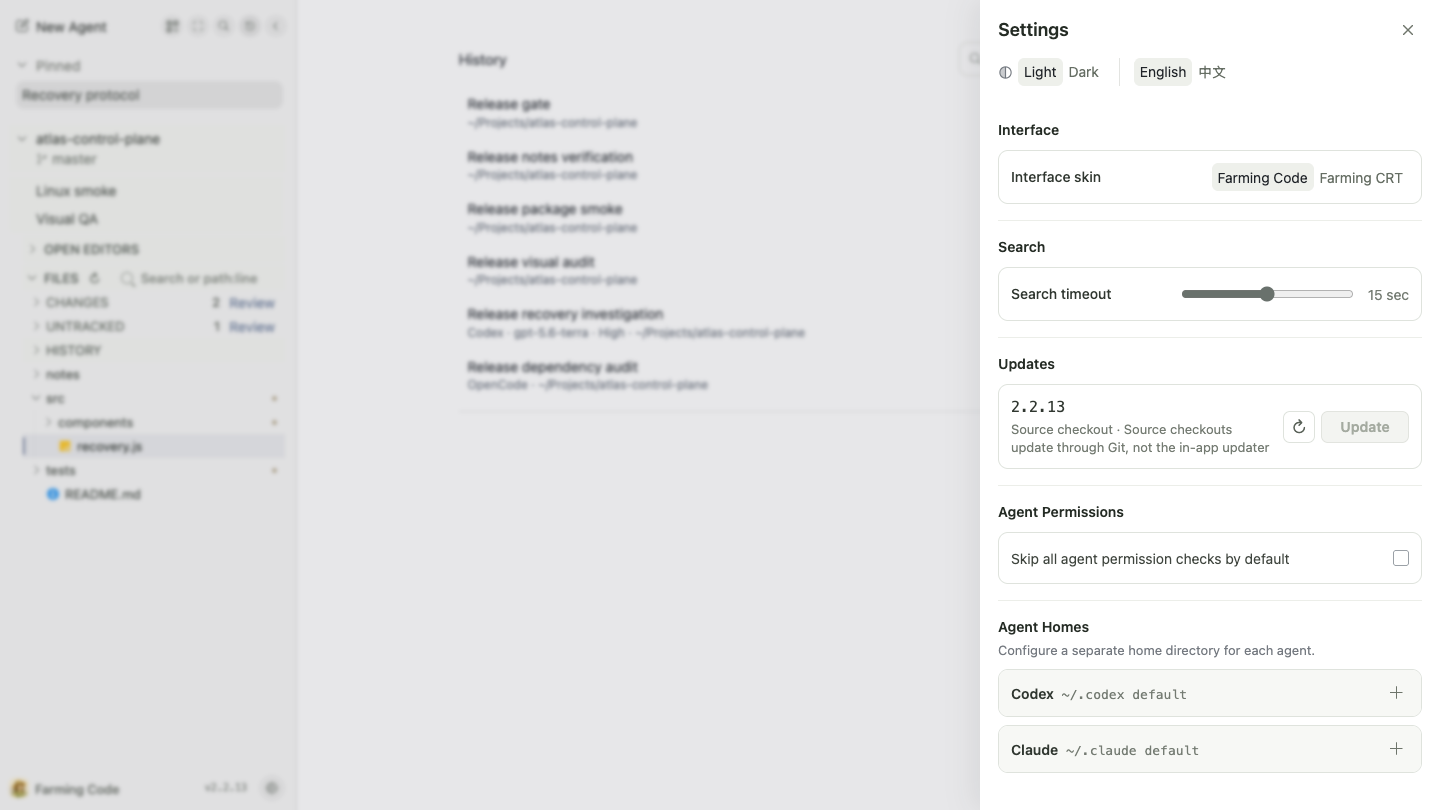
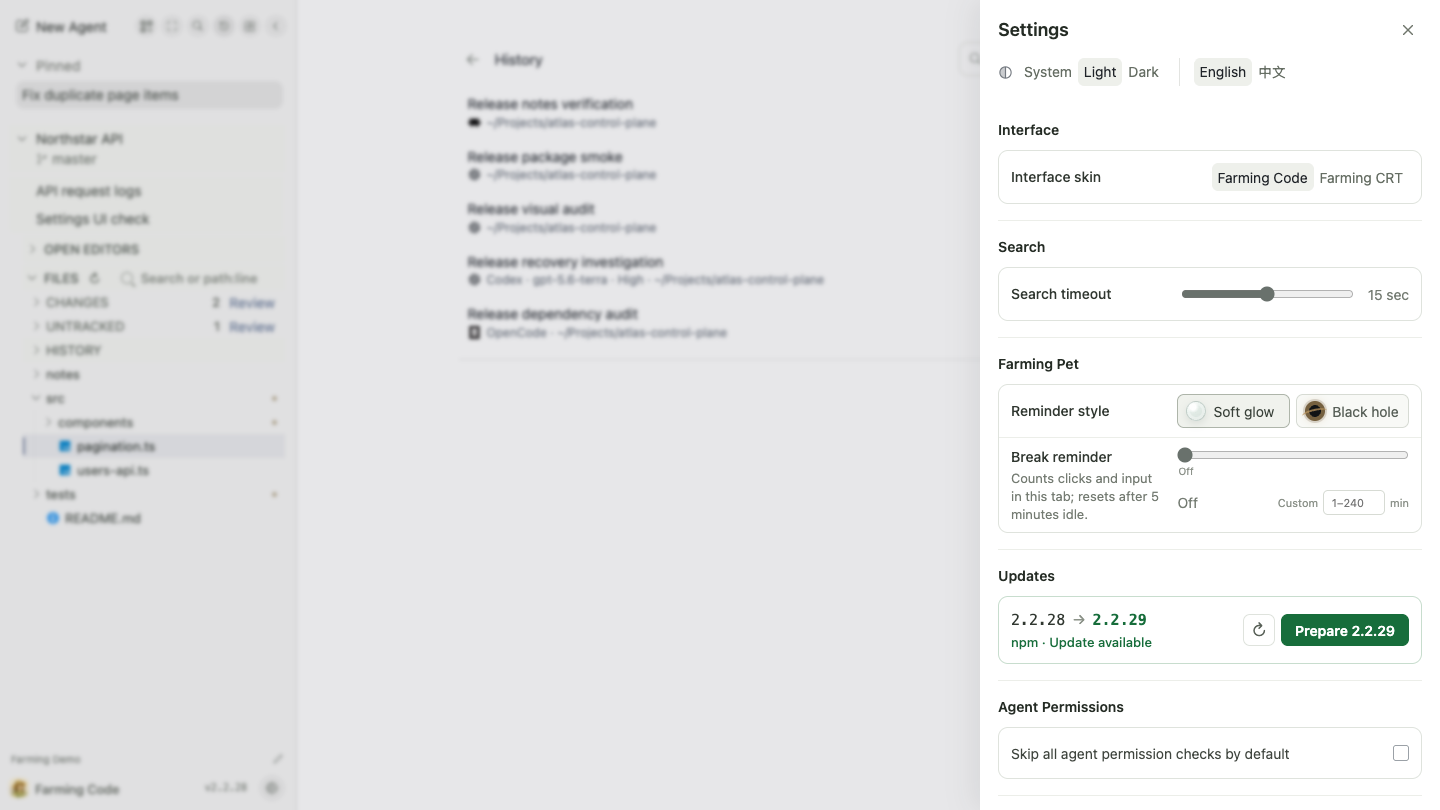
docs: refresh README product screenshots

diff --git a/scripts/capture-product-screenshots.js b/scripts/capture-product-screenshots.js
@@ -845,36 +845,13 @@ async function projectNorthstarChat(page, { mobile = false } = {}) {
   }, { version: packageVersion, mobileLayout: mobile });
 }
 
-async function projectNorthstarCrtDashboard(page) {
+async function stabilizeCrtDashboard(page) {
   await page.addStyleTag({
     content: [
       '#farming-crt .agent-output-afterimage { display: none !important; }',
       '#farming-crt .agent-block.working .agent-output:not(.structured-preview) { animation: none !important; }',
+      '#farming-crt #map-area .agent-block.unread:not(:hover) { box-shadow: 0 0 7px rgba(12, 204, 104, 0.15), inset 0 0 10px rgba(12, 204, 104, 0.025) !important; }',
     ].join('\n'),
-  });
-  await page.evaluate(() => {
-    const firstCard = document.querySelector('#map-area .agent-block');
-    if (!firstCard) throw new Error('CRT dashboard has no Agent card');
-    const title = firstCard.querySelector('.agent-header');
-    const status = firstCard.querySelector('.agent-status');
-    const output = firstCard.querySelector('.agent-output');
-    if (!title || !status || !output) throw new Error('CRT Agent card structure changed');
-    title.textContent = 'Northstar pagination';
-    status.textContent = 'running | warm | Northstar API';
-    output.classList.remove('structured-preview');
-    output.replaceChildren();
-    const tail = document.createElement('div');
-    tail.className = 'agent-output-tail';
-    tail.textContent = [
-      'PAGINATION FIX',
-      '',
-      'page-boundary duplicates: 0',
-      'bounded retries: 3',
-      'response shape: unchanged',
-      '',
-      '8 boundary tests: PASS',
-    ].join('\n');
-    output.appendChild(tail);
   });
 }
 
@@ -956,7 +933,8 @@ async function main() {
       task: '',
     });
     const shellAgentId = await startDemoAgent(page, baseUrl);
-    await updateAgent(page, baseUrl, codexAgentId, { customTitle: 'Fix duplicate page items', pinned: true });
+    await updateAgent(page, baseUrl, codexAgentId, { customTitle: 'Fix duplicate page items' });
+    await updateAgent(page, baseUrl, codexAgentId, { pinned: true });
     await updateAgent(page, baseUrl, terminalAgentId, { customTitle: 'Pagination regression' });
     await updateAgent(page, baseUrl, claudeAgentId, { customTitle: 'Settings UI check' });
     await updateAgent(page, baseUrl, shellAgentId, { customTitle: 'API request logs' });
@@ -1161,8 +1139,49 @@ async function main() {
     await screenshot(page, '08-history-search.png');
 
     await page.keyboard.press('Escape');
+    const latestScreenshotVersion = packageVersion.replace(
+      /(\d+)$/,
+      value => String(Number(value) + 1),
+    );
+    await page.route(`**${basePath}/api/update*`, route => route.fulfill({
+      json: {
+        update: {
+          method: 'npm',
+          current: {
+            releaseVersion: packageVersion,
+            packageVersion,
+            type: 'npm',
+          },
+          latest: {
+            version: latestScreenshotVersion,
+            assetName: latestScreenshotVersion,
+            blockedReason: '',
+          },
+          selected: {
+            version: latestScreenshotVersion,
+            assetName: latestScreenshotVersion,
+            available: true,
+            installable: true,
+          },
+          versions: [{
+            version: latestScreenshotVersion,
+            assetName: latestScreenshotVersion,
+            available: true,
+            installable: true,
+          }],
+          available: true,
+          installable: true,
+          state: {
+            phase: 'idle',
+            version: latestScreenshotVersion,
+            previousVersion: packageVersion,
+          },
+        },
+      },
+    }));
     await page.getByTestId('code-sidebar-options').click();
     await page.getByTestId('code-settings-panel').waitFor({ state: 'visible', timeout: 20_000 });
+    await page.getByTestId('code-settings-update-card').getByText(latestScreenshotVersion, { exact: true }).waitFor({ state: 'visible', timeout: 20_000 });
     await screenshot(page, '14-code-settings.png');
     await page.keyboard.press('Escape');
 
@@ -1199,89 +1218,65 @@ async function main() {
     await page.setViewportSize({ width: 1440, height: 810 });
     await page.keyboard.press('Escape');
 
+    const releaseOpsWorkspace = path.join(homeDir, 'Projects', 'release-ops');
+    fs.mkdirSync(releaseOpsWorkspace, { recursive: true });
     const dependencyAgentId = await startAgent(page, baseUrl, {
       command: 'bash',
-      workspace: workspaceDir,
+      workspace: releaseOpsWorkspace,
       task: '',
     });
     await updateAgent(page, baseUrl, dependencyAgentId, { customTitle: 'Dependency audit' });
     await sendAgentInput(page, baseUrl, dependencyAgentId, 'stty -echo; clear; printf "DEPENDENCY AUDIT\\n\\nproduction packages: 74\\nknown vulnerabilities: 0\\nlicense conflicts: 0\\nlockfile drift: none\\n\\nready for release\\n"; stty echo\r');
     await waitForAgentOutput(page, baseUrl, dependencyAgentId, 'ready for release');
 
-    const dashboardCards = [
-      {
-        title: 'Checkpoint recovery',
-        project: 'terminal-lab',
-        lines: ['RECOVERY TRACE 14:32', 'epoch 7c2a / rev 1842', '', 'gap detected at seq 918', 'checkpoint installed: 920', 'live stream resumed: 921', '', 'result  CONTIGUOUS'],
-      },
-      {
-        title: 'API contract review',
-        project: 'farming-core',
-        lines: ['PATCH REVIEW', '6 files  +148  -37', '', 'runtimeBinding  tagged', 'WorkspaceRoot   stable', 'legacy fields    blocked', '', 'open: cancellation test'],
-      },
-      {
-        title: 'Mobile control pass',
-        project: 'mobile-console',
-        lines: ['DEVICE MATRIX', '', 'iPhone 15      PASS', 'Pixel 9        PASS', 'iPad mini      PASS', '', 'IME compose    PASS', 'focus restore  PASS'],
-      },
-      {
-        title: 'Federated trust audit',
-        project: 'net-portal',
-        lines: ['PASS INSPECTOR', 'aud: edge-west-2', 'ttl: 43s', '', '[ok] target bound', '[ok] one-time nonce', '[ok] token absent', '', 'replay -> REJECTED'],
-      },
-      {
-        title: 'Release narrative',
-        project: 'product-docs',
-        lines: ['DOC SET', '', 'README.en/zh       linked', 'Code screens       6/6', 'CRT screens        8/8', 'license notices    clean', '', 'copy pass: COMPLETE'],
-      },
-      {
-        title: 'Latency watch',
-        project: 'release-ops',
-        lines: ['INPUT LATENCY / 5m', '', 'p50   31 ms  ||||||', 'p95   58 ms  |||||||||||', 'p99   83 ms  |||||||||||||', '', 'budget 250 ms', 'headroom 67%'],
-      },
-      {
-        title: 'Operator decision',
-        project: 'deploy-control',
-        lines: ['DEPLOY HOLD', '', 'Mac smoke       green', 'Linux smoke     green', 'manifest        signed', '', 'Choose window:', '  A  16:00   B  18:30'],
-      },
-    ];
-    const dashboardAgentIds = [];
-    for (const card of dashboardCards) {
-      const cardWorkspace = path.join(homeDir, 'Projects', card.project);
-      fs.mkdirSync(cardWorkspace, { recursive: true });
-      const agentId = await startAgent(page, baseUrl, {
-        command: 'bash',
-        workspace: cardWorkspace,
-        task: '',
-      });
-      dashboardAgentIds.push(agentId);
-      await updateAgent(page, baseUrl, agentId, { customTitle: card.title, unread: false });
-      const body = card.lines.join('\\n').replaceAll('"', '\\"');
-      await sendAgentInput(page, baseUrl, agentId, 'stty -echo\r');
-      await page.waitForTimeout(120);
-      await sendAgentInput(page, baseUrl, agentId, 'clear\r');
-      await page.waitForTimeout(120);
-      await sendAgentInput(page, baseUrl, agentId, `printf "\\033[H\\033[2J${body}\\n"; stty echo\r`);
-      await waitForAgentOutput(page, baseUrl, agentId, card.lines.at(-1));
-    }
+    const recoveryWorkspace = path.join(homeDir, 'Projects', 'terminal-lab');
+    fs.mkdirSync(recoveryWorkspace, { recursive: true });
+    const crtRecoveryAgentId = await startAgent(page, baseUrl, {
+      command: 'bash',
+      workspace: recoveryWorkspace,
+      task: '',
+    });
+    await updateAgent(page, baseUrl, crtRecoveryAgentId, { customTitle: 'Watch checkpoint recovery' });
+    await sendAgentInput(page, baseUrl, crtRecoveryAgentId, [
+      'stty -echo',
+      'clear',
+      `printf '\\033[1;35mCHECKPOINT RECOVERY\\033[0m\\n\\nreplaying epoch \\033[36m7f2c…91ab\\033[0m\\n  output sequence      \\033[32mcontiguous\\033[0m\\n  resize boundary      \\033[32mcommitted\\033[0m\\n  hidden-page resume   \\033[33mverifying\\033[0m\\n\\nwatch mode · waiting for the next transition\\n'`,
+      'stty echo',
+    ].join('; ') + '\r');
+    await waitForAgentOutput(page, baseUrl, crtRecoveryAgentId, 'waiting for the next transition');
+
+    const docsWorkspace = path.join(homeDir, 'Projects', 'docs-ui');
+    fs.mkdirSync(docsWorkspace, { recursive: true });
+    const crtChatAgentId = await startAgent(page, baseUrl, {
+      command: 'claude',
+      workspace: docsWorkspace,
+      task: 'Check markdown typography in the structured Chat preview.',
+      agentRuntimeMode: 'acp',
+    });
+    await updateAgent(page, baseUrl, crtChatAgentId, { customTitle: 'Audit Chat rendering' });
+    await updateAgent(page, baseUrl, crtChatAgentId, { unread: false });
+    await updateAgent(page, baseUrl, shellAgentId, { customTitle: 'Release verification' });
+    await updateAgent(page, baseUrl, claudeAgentId, { archived: true });
 
     await page.goto(`${basePath}/crt/`, { waitUntil: 'networkidle' });
     await page.locator('body#farming-crt').waitFor({ state: 'visible', timeout: 30_000 });
     await page.locator('.agent-block').first().waitFor({ state: 'visible', timeout: 30_000 });
+    await page.waitForTimeout(500);
     await Promise.all([
       codexAgentId,
-      claudeAgentId,
       shellAgentId,
       dependencyAgentId,
-      ...dashboardAgentIds,
+      crtRecoveryAgentId,
+      crtChatAgentId,
     ].map(agentId => updateAgent(page, baseUrl, agentId, { unread: false })));
-    await page.locator('.agent-block').nth(8).waitFor({ state: 'visible', timeout: 30_000 });
+    await page.locator('.agent-block').nth(4).waitFor({ state: 'visible', timeout: 30_000 });
     await page.waitForTimeout(900);
     const dashboardCardsVisible = await page.locator('#map-area .agent-block').count();
-    if (dashboardCardsVisible !== 9) {
-      throw new Error(`expected 9 visible CRT dashboard cards, found ${dashboardCardsVisible}`);
+    if (dashboardCardsVisible !== 5) {
+      throw new Error(`expected 5 visible CRT dashboard cards, found ${dashboardCardsVisible}`);
     }
-    await projectNorthstarCrtDashboard(page);
+    await stabilizeCrtDashboard(page);
+    await page.locator(`#map-area .agent-block[data-agent-id="${dependencyAgentId}"]`).hover();
     await screenshot(page, '01-crt-dashboard.png', crtScreenshotDir);
     if (requestedScreenshotsComplete()) return;
 

diff --git a/README.md b/README.md
@@ -55,8 +55,6 @@ Start or resume Codex, Claude Code, OpenCode, Qoder, and other detected coding C
 
 Browse, search, and lightly edit Project Files without leaving the current task. Inspect Git Changes, History, Diff, and Blame, then open a commit or working-copy change in Review.
 
-![Farming Code project files and blame](./docs/products/code/assets/04-files-editor-blame.png)
-
 ### Browser Resources
 
 Each Project can own multiple named Browser Resources. In **Plugins → Browser**, users choose a discovered Chromium-based system browser or an external loopback CDP endpoint. Farming prepares a pinned `agent-browser` runtime at startup and sends both human input and Agent actions to the same session. Farming does not download Chromium or depend on Playwright. Agents can discover and operate these resources with `farming browser`; npm installations also expose the `farming-browser` alias.
@@ -75,10 +73,6 @@ Farming prepares the pinned Codex and Claude executables needed by its structure
 | Claude Code | Yes | Yes | Yes |
 | OpenCode | Yes | Yes | Yes |
 | Qoder | Yes | Yes | Yes |
-| Qwen Code | — | Yes | CLI-dependent |
-| Aider | — | Yes | CLI-dependent |
-| GitHub Copilot CLI | — | Yes | CLI-dependent |
-| Amazon Q | — | Yes | CLI-dependent |
 | bash / zsh | — | Yes | No |
 
 Farming hosts CLIs that already work on the same machine. It does not replace provider installation, login, or account configuration.
@@ -101,15 +95,11 @@ Development machine
 
 The browser can disconnect and reconnect without stopping an Agent. A normal Farming server restart can also reconnect supported live terminal sessions. The desktop layout keeps projects, conversations, files, and review together; the mobile layout focuses one conversation, terminal, or file at a time.
 
-<p align="center">
-  <img src="./docs/products/code/assets/05-mobile-agent-chat.png" alt="Farming Code reconnecting to a running Agent from a phone" width="390">
-</p>
-
 ## Farming CRT
 
 Farming CRT is an optional keyboard-first, retro control-room interface for scanning many Agents, opening their Chat or Terminal sessions, searching history, and viewing usage telemetry.
 
-![Farming CRT multi-Agent control room](./docs/products/crt/assets/01-crt-dashboard.png)
+![Farming CRT multi-agent dashboard](./docs/products/crt/assets/01-crt-dashboard.png)
 
 Code and CRT use the same backend Agents and sessions. Switching interfaces does not create a second Agent. Farming Code remains the default interface and the supported phone interface. See the [Farming CRT guide](./docs/products/crt/README.md) for controls and workflows.
 
@@ -119,27 +109,11 @@ Farming Net is a separate, token-protected directory for Farming deployments. It
 
 ## Installation And Updates
 
-The installed `farming` CLI defaults to port `6694`, base path `/farming`, config directory `~/.farming`, and token authentication. Useful daemon commands are:
+Install with the Quick Start command above. For npm installations, **Settings → Updates** prepares a selected release while the current Server keeps running, then applies it after confirmation. The existing startup token is retained.
 
-```bash
-farming status
-farming url
-farming logs
-farming stop
-```
+![Farming npm update settings](./docs/products/code/assets/14-code-settings.png)
 
-Farming Server lifecycle is crash-only: `farming stop`, restart, and update terminate the Server immediately instead of waiting for active Agent work. The next Server process reconciles Farming-owned state and reconnects supported live runtimes; an interrupted provider turn may still require the provider's normal resume. If the updater lacks permission to stop the recorded Server process, it leaves both package directories untouched and asks the owning OS user or an administrator to restart Farming before retrying.
-
-The startup token is stored in `~/.farming/.session-token` and reused across restarts and upgrades. **Settings → Updates** uses a two-step flow for npm installations: **Prepare** installs the selected version into a separate staging directory while the current server keeps running, then **Restart to update** switches the package directory and restarts Farming only after the user clicks it. If the new server does not start, Farming restores the previous package directory. npm preparation first uses the machine's configured registry and retries the registry shown in Settings only when that registry lacks the selected version. Before preparing or applying an update, Farming verifies that npm targets the same package root that launched the server. GitHub Releases also provide standalone CLI and directory bundles; see [GitHub Releases](https://github.com/zhuwenzhuang/farming/releases) for current artifacts.
-
-To run from source with the same port and base path:
-
-```bash
-npm install
-PORT=6694 FARMING_BASE_PATH=/farming npm start
-```
-
-For trusted local development only, `npm run start:no-auth` disables token authentication.
+Standalone CLI and directory bundles remain available from [GitHub Releases](https://github.com/zhuwenzhuang/farming/releases).
 
 ## Security
 
